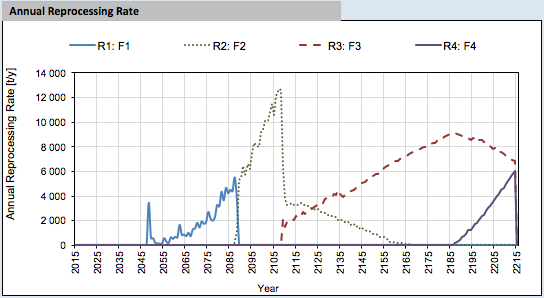
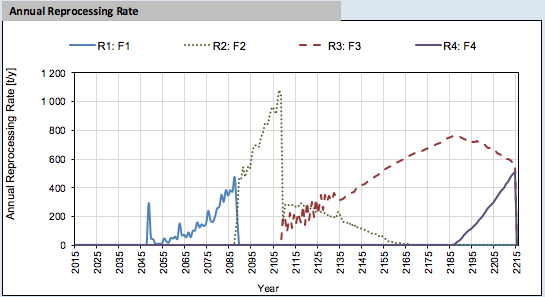
update the Case 2 simulation, using core assembly and assembly batch, update the text accordingly, add some explanation about the DRE, upadte the figure of case 2 to match the new implementation

diff --git a/EG23.tex b/EG23.tex
@@ -144,14 +144,14 @@ types (i.e. Cyclus prototypes) used in this analysis.
 
 \subsection{Reactors}
 
-After the LWR to SFR transition is completed, new SFR reactors are deployed
-with a lower breeding ratio in order to prevent unbounded buildup of
-plutonium. The properties of the different reactors cores used for the
-simulation have been summarized in Table \ref{tab:reactor}. Because of the 1
-month time step of Cyclus, the number of batch, batch size, cycle lengh have been
-chosen in order to maintain a correct core inventory and complete cycle
-periode. Those choice implies small discrepencies between specifications and
-Cyclus input, both values have been detailled. 
+After the LWR to SFR transition is completed, new SFR reactors are deployed with a
+lower breeding ratio in order to prevent unbounded buildup of plutonium. The
+properties of the different reactors cores used for the simulation have been
+summarized in Table \ref{tab:reactor}. Because of the 1 month time step of Cyclus,
+the number of batch, batch size, cycle lengh have been chosen in order to maintain
+a correct core inventory and complete cycle periode. Those choice implies small
+discrepencies between specifications and Cyclus input, both values have been
+detailled.
 
 %% NOTE: Are these the specified properties from Bo, or the as-used properties
 %% in Cyclus, or some combination?
@@ -162,24 +162,24 @@ Cyclus input, both values have been detailled.
     \centering
     \begin{tabularx}{350pt}{lXXX}
       \hline
-      Core Specifications   &  LWR             &  SFR 1           &  SFR 2            \\
+      Core Specifications   &  LWR             &  SFR 1            &  SFR 2            \\
       \hline
-      Rated Power, [MWe]    &  1000            &  400             &  400              \\
-      Thermal Efficiency    &  0.33            &  0.4             &  0.4              \\
-      Capacity Factor       &  0.90            &  0.90            &  0.90             \\
-      Burnup, [Gwd/tHM]     &  50              &  47.501          &  42.397           \\
-      Number of batches     &  3               &  5.44            &  4.44             \\
-      Cycle length, [month] &  18              &  12              &  12               \\
-      Core Inventory, [tHM] &  3$\times$29.565 &  37.62           &  34.40            \\
-                                                                                      \\
-      \multicolumn{4}{l}{Cyclus inplementation}                                       \\ 
+      Rated Power, [MWe]    &  1000            &  400              &  400              \\
+      Thermal Efficiency    &  0.33            &  0.4              &  0.4              \\
+      Capacity Factor       &  0.90            &  0.90             &  0.90             \\
+      Burnup, [Gwd/tHM]     &  50              &  47.501           &  42.397           \\
+      Number of batches     &  3               &  5.44             &  4.44             \\
+      Cycle length, [month] &  18              &  12               &  12               \\
+      Core Inventory, [tHM] &  3$\times$29.565 &  37.62            &  34.40            \\
+                                                                                       \\
+      \multicolumn{4}{l}{Cyclus inplementation}                                        \\ 
       \hline
       \hline
-      Assembly size [kgHM]  &  14784           &  7524            &  11466            \\
-      Assembly in the core  &  6               &  5               &  3                \\
-      Assembly per batches  &  1               &  1               &  1                \\
-      Cycle length, [month] &  9               &  13              &  18               \\
-      Core Inventory, [tHM] &  6$\times$14.784 &  5$\times$7.524  &  3$\times$11.466  \\
+      Assembly size [kgHM]  &  14784           &  1393.33          &  1563.64          \\
+      Assembly in the core  &  6               &  27               &  22               \\
+      Assembly per batches  &  1               &  5                &  5                \\
+      Cycle length, [month] &  9               &  12               &  12               \\
+      Core Inventory, [tHM] &  6$\times$14.784 &  27$\times$1.393  &  22$\times$1.564  \\
 %% I have increase the size of the batch by 1 to avoid a bid bug I
 %% experience... which we have corrected after... But I did not revert the natch modification 
       \hline
@@ -202,20 +202,48 @@ invariants such as fuel residence time, burnup, and discharge rates
 \cite{B.Feng_calculation}.
 
 For the SFR 1 facility type, the cycle length is specified to be $5.44~$y (for
-discharge burnup of 37.62 GWd/t), $5.41~$y has been used (5 $\times$ 13 months). For
-SFR 2, $4.5~$y has been used (3 $\times$ 18 months) where 4.44 was expected. With
-Cyclus' 1-month time step, the burnup resolution can be easly calculated as:
-\begin{equation} \Delta BU = \frac{P_{th} \times \Delta t}{M_{r}},
-\end{equation}
-\noindent where $P_{th}$ is the thermal power of the reactor, $M_{r}$ its mass in
-heavy metal, $\Delta BU$ the burnup achievable precision and $\Delta t$ the time
-step size. In this simulation the $\Delta BU$ are for the SFR 1 \& 2 respectively:
-$0.73$ and $0.79~$GWd/t.
+discharge burnup of 37.62 GWd/t), $5.40~$y has been used (27/5 $\times$ 12
+months). For the SFR 2, $4.4~$y has been used (22/5. $\times$ 12 months) where
+4.44 was expected. 
 
-This does not affect the composition of the discharge fuel as the reactor model
-used for this analysis does not perform a burnup evolution calculation. Only the
-mass of discharged fuel is affected with a respective relative error : $0.01 \%$,
-$0.0 \%$ and $0.006 \%$.
+Because the cycle length (in month), the number of assembly in a core and the number of
+assembly in a batch are defined as integer in Cyclus, have an exact match between
+the specification could need some tuning and can be unefficient. For exemple, in
+the precedent exercice, for the SFR 1, one could have set $544~$assembly in the
+core, $544$ in the batch with a cycle lengh of 12 month to have an exact match
+with the specification. Such implementation would have been very long to run,
+because the DRE (Dynamic Ressource Exchange) would have to deal at each refilling of each reactor 100 assembly
+trades, so few 10000 trades each years.
+
+The DRE is one of the main part of Cyclus, it deals the exchange of material between
+the different archetypes (Facilities, Institutions, Regions...). The material
+exhcange in Cyclus is devided in 3 phases: 
+\begin{itemize}
+  \item phase 1, request: each archetypes send there material request to the DRE
+    corresponding to their individuals needs,
+  \item phase 2, bid: the DRE share the request informations to all the
+    facilities, allowing them to place a bid on some depending on there indivudual productions,
+  \item phase 3, trade: the DRE solve the request/bid problem and each facilities
+    apply the results.
+\end{itemize}
+
+This DRE system allows Cyclus to deal with competition in the supply of materials. 
+
+
+
+%With Cyclus' 1-month time step, the burnup resolution can be
+%easly calculated as:
+%\begin{equation} \Delta BU = \frac{P_{th} \times \Delta t}{M_{r}},
+%\end{equation}
+%\noindent where $P_{th}$ is the thermal power of the reactor, $M_{r}$ its mass in
+%heavy metal, $\Delta BU$ the burnup achievable precision and $\Delta t$ the time
+%step size. In this simulation the $\Delta BU$ are for the SFR 1 \& 2 respectively:
+%$0.73$ and $0.79~$GWd/t.
+%
+%This does not affect the composition of the discharge fuel as the reactor model
+%used for this analysis does not perform a burnup evolution calculation. Only the
+%mass of discharged fuel is affected with a respective relative error : $0.01 \%$,
+%$0.0 \%$ and $0.006 \%$.
 
 %% NOTE: This ends abruptly... 
 %%    do we calculate this for the different reactors?
@@ -267,7 +295,7 @@ corresponds to the output quantity ``Used Fuel in Cooling Storage'', and
 one dedicated to storage until reprocessing with no minimum residence time
 corresponds to the output quantity ``UNF waiting for reprocessing''.
 
-The implementation properties of the cooling storage can be found in table \ref{cooling_1} 
+The implementation properties of the cooling storage can be found in table \ref{tab:cooling_1} 
 \begin{table}[h!]
     \centering
     \begin{tabular}{ll}
@@ -361,10 +389,10 @@ facilities used in Case 2 are summarized in Table
 %    \hline
     \hline
     Commodity Sources         &  Preferences \\
-    Used UOX A                &  3           \\
-    Used UOX B                &  3           \\
-    Used MOX A                &  2           \\
-    Used MOX B                &  1           \\
+    LWR UOX A                 &  3           \\
+    LWR UOX B                 &  3           \\
+    SFR MOX A                 &  2           \\
+    SFR MOX B                 &  1           \\
     \hline
     \end{tabular}
     \caption{Separation facilities implementation.}
@@ -566,7 +594,7 @@ reprocessing'' and in the ``Fuel Resource in Storage''.
 
 Indeed, as seen in Figure \ref{fig:ARR_2}, the reprocessing follows more closely
 than in th case 1 the plutonium need of the SFR fuel fabrication. Indeed the
-accumulation of plutonium is limited at $\sim400~t$ (Figure \ref{fig:SFC_2}) versus $\sim1500~t$ in the
+accumulation of plutonium is limited at $\sim500~t$ (Figure \ref{fig:SFC_2}) versus $\sim1500~t$ in the
 first case. Nevertheless, one can still observe a large plutonium accumulation
 spike 2100 and 2145 which one should be able to avoid with a better reprocessing
 capacity deployement.
